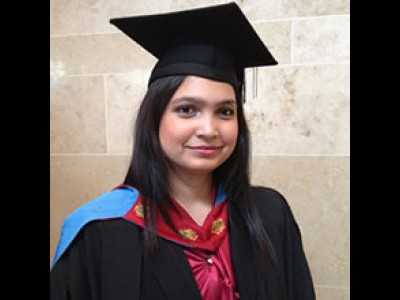
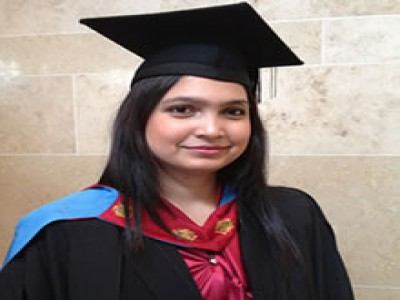
rumi

diff --git a/dev/application/views/home.php b/dev/application/views/home.php
@@ -54,7 +54,8 @@
                                                         <div class="col-md-4 col-sm-4 col-xs-4 post-thumbnail-mini">
                                                             <div class="item-thumbnail">
                                                                 <a href="<?php echo $hm->verticalBarLink1?>">
-                                                                    <img  style="width: 80px;height: 80px" src="<?php echo base_url()?><?php echo FOLDER_NAME ?>/images/homeImage/<?php echo $hm->verticalBarImage1?>" alt="image">
+<!--                                                                    <img  style="width: 80px;height: 80px" src="--><?php //echo base_url()?><!----><?php //echo FOLDER_NAME ?><!--/images/homeImage/--><?php //echo $hm->verticalBarImage1?><!--" alt="image">-->
+                                                                    <img src="<?php echo base_url(FOLDER_NAME.'/images/homeImage/'.thumb(FOLDER_NAME.'/images/homeImage/'.$hm->verticalBarImage1,'80','80')); ?>" alt="image">
                                                                     <div class="thumbnail-hoverlay main-color-1-bg"></div>
                                                                     <div class="thumbnail-hoverlay-cross"></div>
                                                                 </a>
@@ -76,7 +77,8 @@
                                                         <div class="col-md-4 col-sm-4 col-xs-4 post-thumbnail-mini">
                                                             <div class="item-thumbnail">
                                                                 <a href="<?php echo $hm->verticalBarLink2?>">
-                                                                    <img  style="width: 80px;height: 80px"src="<?php echo base_url()?><?php echo FOLDER_NAME ?>/images/homeImage/<?php echo $hm->verticalBarImage2?>" alt="image">
+<!--                                                                    <img  style="width: 80px;height: 80px"src="--><?php //echo base_url()?><!----><?php //echo FOLDER_NAME ?><!--/images/homeImage/--><?php //echo $hm->verticalBarImage2?><!--" alt="image">-->
+                                                                    <img src="<?php echo base_url(FOLDER_NAME.'/images/homeImage/'.thumb(FOLDER_NAME.'/images/homeImage/'.$hm->verticalBarImage2,'80','80')); ?>" alt="image">
                                                                     <div class="thumbnail-hoverlay main-color-1-bg"></div>
                                                                     <div class="thumbnail-hoverlay-cross"></div>
                                                                 </a>
@@ -98,7 +100,8 @@
                                                         <div class="col-md-4 col-sm-4 col-xs-4 post-thumbnail-mini">
                                                             <div class="item-thumbnail">
                                                                 <a href="<?php echo $hm->verticalBarLink3?>">
-                                                                    <img  style="width: 80px;height: 80px"src="<?php echo base_url()?><?php echo FOLDER_NAME ?>/images/homeImage/<?php echo $hm->verticalBarImage3?>" alt="image">
+<!--                                                                    <img  style="width: 80px;height: 80px"src="--><?php //echo base_url()?><!----><?php //echo FOLDER_NAME ?><!--/images/homeImage/--><?php //echo $hm->verticalBarImage3?><!--" alt="image">-->
+                                                                    <img src="<?php echo base_url(FOLDER_NAME.'/images/homeImage/'.thumb(FOLDER_NAME.'/images/homeImage/'.$hm->verticalBarImage3,'80','80')); ?>" alt="image">
                                                                     <div class="thumbnail-hoverlay main-color-1-bg"></div>
                                                                     <div class="thumbnail-hoverlay-cross"></div>
                                                                 </a>
@@ -120,7 +123,8 @@
                                                         <div class="col-md-4 col-sm-4 col-xs-4 post-thumbnail-mini">
                                                             <div class="item-thumbnail">
                                                                 <a href="<?php echo $hm->verticalBarLink4?>">
-                                                                    <img  style="width: 80px;height: 80px"src="<?php echo base_url()?><?php echo FOLDER_NAME ?>/images/homeImage/<?php echo $hm->verticalBarImage4?>" alt="image">
+<!--                                                                    <img  style="width: 80px;height: 80px"src="--><?php //echo base_url()?><!----><?php //echo FOLDER_NAME ?><!--/images/homeImage/--><?php //echo $hm->verticalBarImage4?><!--" alt="image">-->
+                                                                    <img src="<?php echo base_url(FOLDER_NAME.'/images/homeImage/'.thumb(FOLDER_NAME.'/images/homeImage/'.$hm->verticalBarImage4,'80','80')); ?>" alt="image">
                                                                     <div class="thumbnail-hoverlay main-color-1-bg"></div>
                                                                     <div class="thumbnail-hoverlay-cross"></div>
                                                                 </a>
@@ -474,7 +478,8 @@
                                     <div class="title-testimonial">
                                         <div class="thumb-title">
                                             <?php if ($fb->feedbackByPhoto !=null){?>
-                                                <img src="<?php echo base_url() ?><?php echo FOLDER_NAME ?>/images/feedbackImages/<?php echo $fb->feedbackByPhoto?>" alt="image">
+<!--                                                <img src="--><?php //echo base_url() ?><!----><?php //echo FOLDER_NAME ?><!--/images/feedbackImages/--><?php //echo $fb->feedbackByPhoto?><!--" alt="image">-->
+                                                <img src="<?php echo base_url(FOLDER_NAME.'/images/feedbackImages/'.thumb(FOLDER_NAME.'/images/feedbackImages/'.$fb->feedbackByPhoto,'50','65')); ?>" alt="image">
                                             <?php }?>
                                         </div>
                                         <div class="post-title">
@@ -503,7 +508,8 @@
                         <h4><?php echo $hm->bottomBannerSubTitle;?></h4>
                     </div>
                     <div class="img-news">
-                        <img src="<?php echo base_url()?><?php echo FOLDER_NAME ?>/images/homeImage/<?php echo $hm->bottomBannerImage ?>" alt="image">
+<!--                        <img src="--><?php //echo base_url()?><!----><?php //echo FOLDER_NAME ?><!--/images/homeImage/--><?php //echo $hm->bottomBannerImage ?><!--" alt="image">-->
+                        <img src="<?php echo base_url(FOLDER_NAME.'/images/homeImage/'.thumb(FOLDER_NAME.'/images/homeImage/'.$hm->bottomBannerImage,'2000','331')); ?>" alt="image">
                     </div>
                 <?php } ?>
             </div>
@@ -516,7 +522,8 @@
         <div class=" bottom-logo-slider owl-carousel owl-theme">
             <?php foreach ($affiliation as $af) { ?>
                 <div class="item">
-                    <img src="<?php echo base_url() ?><?php echo FOLDER_NAME ?>/images/affiliationImages/<?php echo $af->AffiliationsPhotoPath ?>" alt="image">
+<!--                    <img src="--><?php //echo base_url() ?><!----><?php //echo FOLDER_NAME ?><!--/images/affiliationImages/--><?php //echo $af->AffiliationsPhotoPath ?><!--" alt="image">-->
+                    <img src="<?php echo base_url(FOLDER_NAME.'/images/affiliationImages/'.thumb(FOLDER_NAME.'/images/affiliationImages/'.$af->AffiliationsPhotoPath,'248','103')); ?>" alt="image">
                 </div>
             <?php } ?>
         </div>

diff --git a/dev/AdminPanel/application/models/Admin/Homem.php b/dev/AdminPanel/application/models/Admin/Homem.php
@@ -26,6 +26,7 @@ class Homem extends CI_Model
 
             if ($this->upload->do_upload('image')) {
                 // if something need after image upload
+                thumb('images/homeImage/bottomBanner'.'.'.pathinfo($bannerImage, PATHINFO_EXTENSION),'2000','331');
             } else {
                 $error = array('error' => $this->upload->display_errors());
                 $che = json_encode($error);
@@ -103,6 +104,7 @@ class Homem extends CI_Model
 
             if($this->upload->do_upload('image')){
                 // if something need after image upload
+                thumb('images/homeImage/bottomBanner'.'.'.pathinfo($bannerImage, PATHINFO_EXTENSION),'2000','331');
             }else{
                 $error =array('error'=>$this->upload->display_errors());
                 $che=json_encode($error);
@@ -594,6 +596,8 @@ class Homem extends CI_Model
                 $data2 =array(
                     'verticalBarImage1' => "verticalBar1" . "." . pathinfo($verticalBarImage[0], PATHINFO_EXTENSION),
                 );
+                thumb('images/homeImage/verticalBar1'.'.'.pathinfo($verticalBarImage[0], PATHINFO_EXTENSION),'80','80');
+
                 $newdata=array_merge($data1,$data2);
 
             }
@@ -606,6 +610,7 @@ class Homem extends CI_Model
                 $data2 =array(
                     'verticalBarImage2' => "verticalBar2" . "." . pathinfo($verticalBarImage[1], PATHINFO_EXTENSION),
                 );
+                thumb('images/homeImage/verticalBar2'.'.'.pathinfo($verticalBarImage[1], PATHINFO_EXTENSION),'80','80');
                 $newdata2=array_merge($newdata,$data2);
 
             }
@@ -618,6 +623,7 @@ class Homem extends CI_Model
                 $data2 =array(
                     'verticalBarImage3' => "verticalBar3" . "." . pathinfo($verticalBarImage[2], PATHINFO_EXTENSION),
                 );
+                thumb('images/homeImage/verticalBar3'.'.'.pathinfo($verticalBarImage[2], PATHINFO_EXTENSION),'80','80');
                 $newdata3=array_merge($newdata2,$data2);
 
             }
@@ -630,6 +636,7 @@ class Homem extends CI_Model
                 $data2 =array(
                     'verticalBarImage4' => "verticalBar4" . "." . pathinfo($verticalBarImage[3], PATHINFO_EXTENSION),
                 );
+                thumb('images/homeImage/verticalBar4'.'.'.pathinfo($verticalBarImage[3], PATHINFO_EXTENSION),'80','80');
                 $newdata4=array_merge($newdata3,$data2);
 
             }
@@ -778,6 +785,7 @@ class Homem extends CI_Model
                 $data2 =array(
                     'verticalBarImage1' => "verticalBar1" . "." . pathinfo($verticalBarImage[0], PATHINFO_EXTENSION),
                 );
+                thumb('images/homeImage/verticalBar1'.'.'.pathinfo($verticalBarImage[0], PATHINFO_EXTENSION),'80','80');
                 $newdata=array_merge($data1,$data2);
 
             }
@@ -790,6 +798,7 @@ class Homem extends CI_Model
                 $data2 =array(
                     'verticalBarImage2' => "verticalBar2" . "." . pathinfo($verticalBarImage[1], PATHINFO_EXTENSION),
                 );
+                thumb('images/homeImage/verticalBar2'.'.'.pathinfo($verticalBarImage[1], PATHINFO_EXTENSION),'80','80');
                 $newdata2=array_merge($newdata,$data2);
 
             }
@@ -802,6 +811,7 @@ class Homem extends CI_Model
                 $data2 =array(
                     'verticalBarImage3' => "verticalBar3" . "." . pathinfo($verticalBarImage[2], PATHINFO_EXTENSION),
                 );
+                thumb('images/homeImage/verticalBar3'.'.'.pathinfo($verticalBarImage[2], PATHINFO_EXTENSION),'80','80');
                 $newdata3=array_merge($newdata2,$data2);
 
             }
@@ -814,6 +824,7 @@ class Homem extends CI_Model
                 $data2 =array(
                     'verticalBarImage4' => "verticalBar4" . "." . pathinfo($verticalBarImage[3], PATHINFO_EXTENSION),
                 );
+                thumb('images/homeImage/verticalBar4'.'.'.pathinfo($verticalBarImage[3], PATHINFO_EXTENSION),'80','80');
                 $newdata4=array_merge($newdata3,$data2);
 
             }

diff --git a/dev/AdminPanel/application/models/Admin/Affiliationm.php b/dev/AdminPanel/application/models/Admin/Affiliationm.php
@@ -44,6 +44,7 @@ class Affiliationm extends CI_Model
 
                 if ($this->upload->do_upload('affiliationImage')) {
                     // if something need after image upload
+                    thumb('images/affiliationImages/'.$affiliationId.'.'.pathinfo($affiliationImage, PATHINFO_EXTENSION),'248','103');
                 } else {
 
                     $error = array('error' => $this->upload->display_errors());
@@ -131,6 +132,7 @@ class Affiliationm extends CI_Model
 
             if($this->upload->do_upload('affiliationImage')){
                 // if something need after image upload
+                thumb('images/affiliationImages/'.$affiliationId.'.'.pathinfo($affiliationImage, PATHINFO_EXTENSION),'248','103');
             }else{
                 $error =array('error'=>$this->upload->display_errors());
                 $che=json_encode($error);
@@ -198,6 +200,16 @@ class Affiliationm extends CI_Model
         $this->db->where('affiliationsId',$AffiliationId);
         $query = $this->db->get('ictmaffiliations');
         foreach ($query->result() as $image){$AffiliationImage=$image->affiliationsPhotoPath;}
+
+
+        $info = pathinfo($AffiliationImage);
+        $name = $info['filename'];
+        $format = $info['extension'];
+
+        $pathanother   = 'images/affiliationImages/'.$name."_103_248".".".$format;
+
+
+        unlink(FCPATH."images/affiliationImages/".$pathanother);
 
         unlink(FCPATH."images/affiliationImages/".$AffiliationImage);
 

diff --git a/dev/AdminPanel/application/models/Admin/Feedbackm.php b/dev/AdminPanel/application/models/Admin/Feedbackm.php
@@ -55,6 +55,7 @@ class Feedbackm extends CI_Model
 
                 if($this->upload->do_upload('feedbackByImage')){
                     // if something need after image upload
+                    thumb('images/feedbackImages/'.$feedbackId.'.'.pathinfo($feedbackByImage, PATHINFO_EXTENSION),'50','65');
                 }
                 else{
 
@@ -162,6 +163,7 @@ class Feedbackm extends CI_Model
 
             if($this->upload->do_upload('feedbackByImage')){
                 // if something need after image upload
+                thumb('images/feedbackImages/'.$feedbackId.'.'.pathinfo($feedbackByImage, PATHINFO_EXTENSION),'50','65');
             }else{
                 $error =array('error'=>$this->upload->display_errors());
                 $che=json_encode($error);
@@ -232,6 +234,15 @@ class Feedbackm extends CI_Model
         $query = $this->db->get('ictmfeedback');
         foreach ($query->result() as $image){$feedbackImage=$image->feedbackByPhoto;}
 
+
+
+        $info = pathinfo($feedbackImage);
+        $name = $info['filename'];
+        $format = $info['extension'];
+
+        $pathanother   = 'images/feedbackImages/'.$name."_65_50".".".$format;
+
+        unlink(FCPATH."images/feedbackImages/".$pathanother);
         unlink(FCPATH."images/feedbackImages/".$feedbackImage);
 
         $data = array(

diff --git a/dev/AdminPanel/application/models/Admin/Coursem.php b/dev/AdminPanel/application/models/Admin/Coursem.php
@@ -89,6 +89,7 @@ class Coursem extends CI_Model
 
                 if ($this->upload->do_upload('image')) {
                     // if something need after image upload
+                    thumb('images/courseImages/'.$courseId.'.'.pathinfo($image, PATHINFO_EXTENSION),'80','80');
                 } else {
 
                     $error = array('error' => $this->upload->display_errors());
@@ -170,6 +171,15 @@ class Coursem extends CI_Model
         $query = $this->db->get('ictmcourse');
         foreach ($query->result() as $image){$courseImage=$image->courseImage;}
 
+        $info = pathinfo($courseImage);
+        $name = $info['filename'];
+        $format = $info['extension'];
+
+        $pathanother   = 'images/courseImages/'.$name."_80_80".".".$format;
+
+
+        unlink(FCPATH."images/courseImages/".$pathanother);
+
         unlink(FCPATH."images/courseImages/".$courseImage);
 
         $data = array(
@@ -236,6 +246,7 @@ class Coursem extends CI_Model
 
                 if($this->upload->do_upload('image')){
                     // if something need after image upload
+                    thumb('images/courseImages/'.$id.'.'.pathinfo($image, PATHINFO_EXTENSION),'80','80');
                 }else{
 
                     $error =array('error'=>$this->upload->display_errors());

diff --git a/dev/application/views/course-sidebar.php b/dev/application/views/course-sidebar.php
@@ -18,7 +18,8 @@
 
                                                 <div class="thumb item-thumbnail">
                                                     <a href="#">
-                                                        <img src="<?php echo base_url() ?><?php echo FOLDER_NAME ?>/images/courseImages/<?php echo $cd->courseImage?>" alt="image" style="width: 80px; height: 80px">
+<!--                                                        <img src="--><?php //echo base_url() ?><!----><?php //echo FOLDER_NAME ?><!--/images/courseImages/--><?php //echo $cd->courseImage?><!--" alt="image" style="width: 80px; height: 80px">-->
+                                                        <img src="<?php echo base_url(FOLDER_NAME.'/images/courseImages/'.thumb(FOLDER_NAME.'/images/courseImages/'.$cd->courseImage,'80','80')); ?>" alt="image">
                                                         <div class="thumbnail-hoverlay main-color-1-bg"></div>
                                                         <div class="thumbnail-hoverlay-cross"></div>
                                                     </a>
